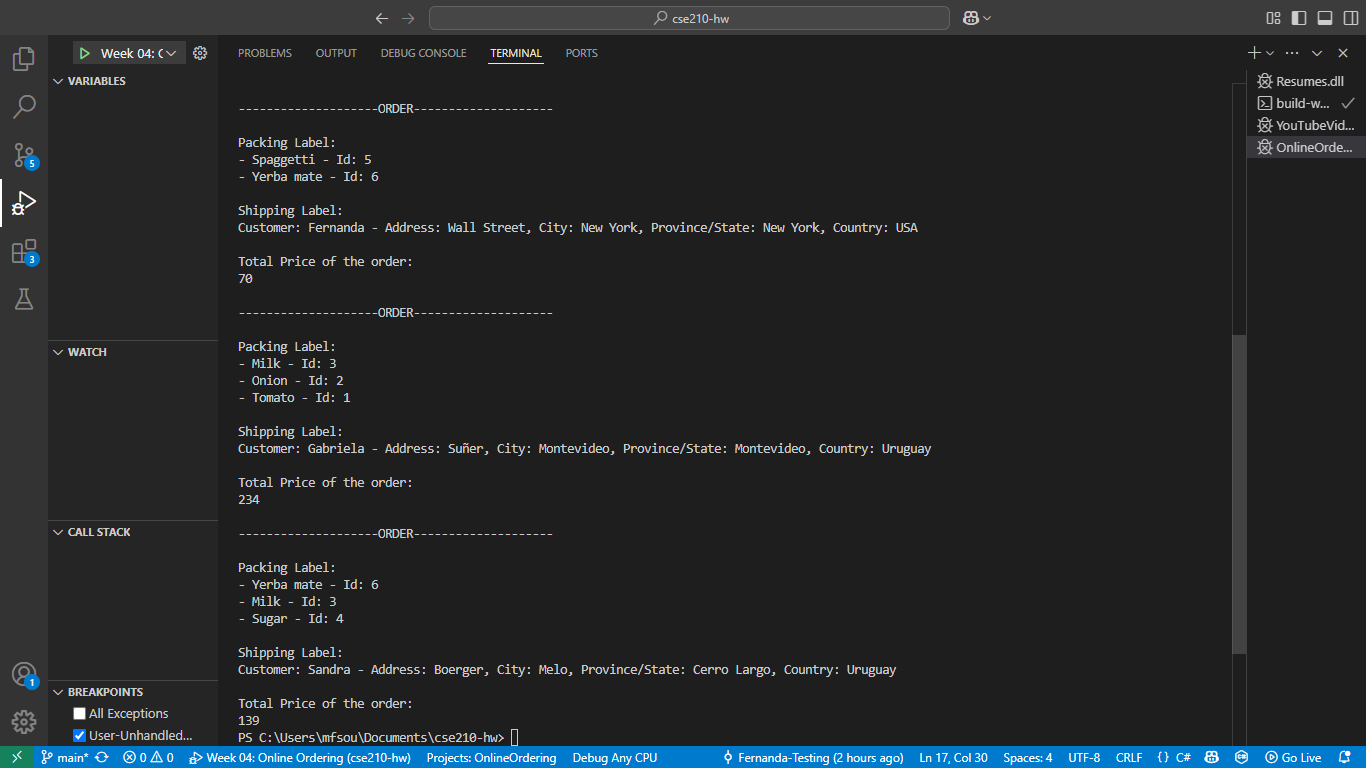
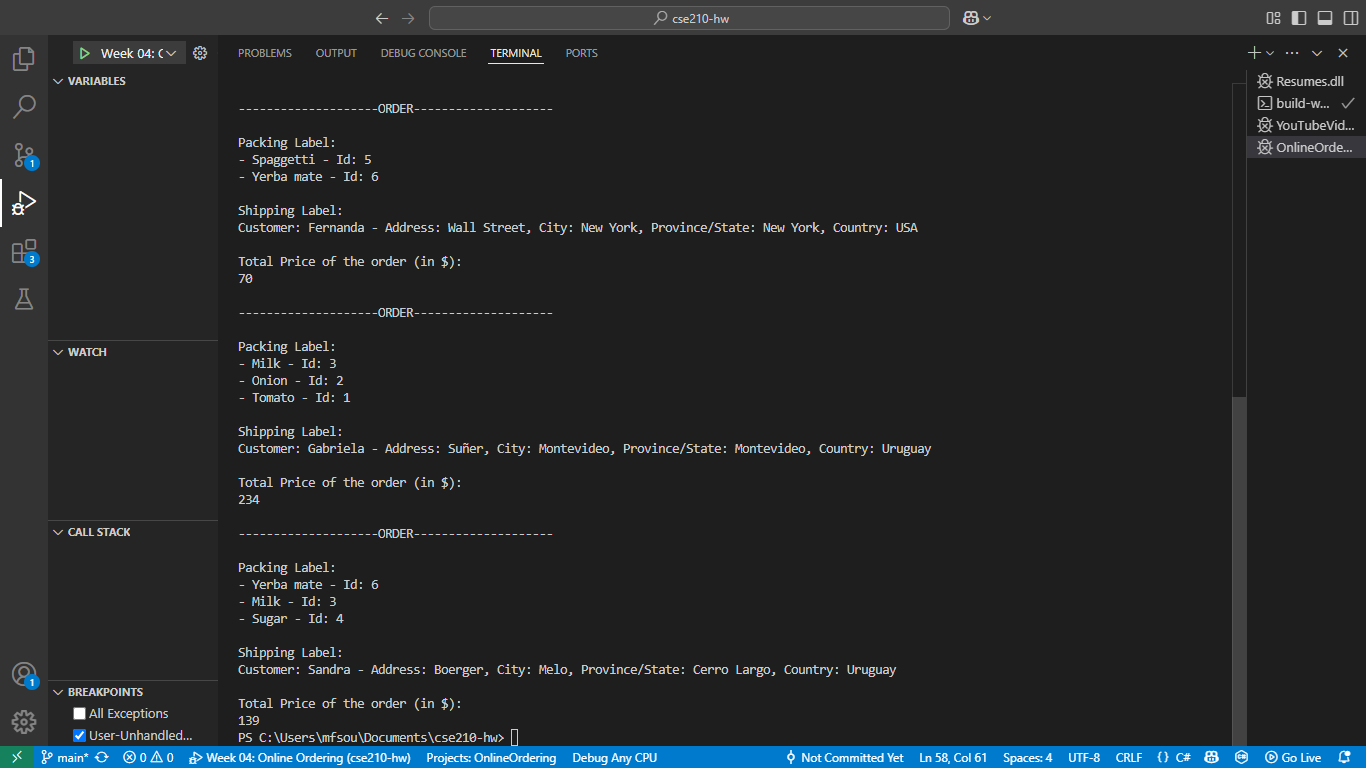
Final commit for W04 assingment Online Ordering program

diff --git a/week04/OnlineOrdering/Program.cs b/week04/OnlineOrdering/Program.cs
@@ -55,7 +55,7 @@ class Program
         Console.WriteLine("Shipping Label:");
         Console.WriteLine(order.GetShippingLabel());
 
-        Console.WriteLine("\nTotal Price of the order: ");
+        Console.WriteLine("\nTotal Price of the order (in $): ");
         Console.WriteLine(order.GetTotalCostOfOrder());
         }
     }
